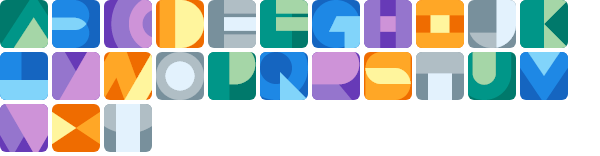
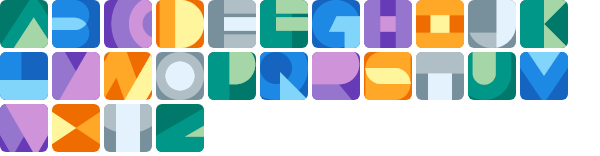
Adds 'z' to the preview

Changed region(s): [[0.24, 0.6667, 0.36, 0.9744]]

diff --git a/Gulpfile.js b/Gulpfile.js
@@ -64,7 +64,7 @@ function js() {
 
 function demo() {
     const demoData = { names: [] };
-    for (let i = 'a'.charCodeAt(0); i < 'z'.charCodeAt(0); ++i) {
+    for (let i = 'a'.charCodeAt(0); i <= 'z'.charCodeAt(0); ++i) {
         demoData.names.push(String.fromCharCode(i));
     }
     return gulp.src('templates/demo.html.tmpl')

diff --git a/demo.html b/demo.html
@@ -60,6 +60,8 @@
         
         <i class="letterimages letterimages-rounded" data-name="y"></i>
         
+        <i class="letterimages letterimages-rounded" data-name="z"></i>
+        
     </div>
 </body>
 
